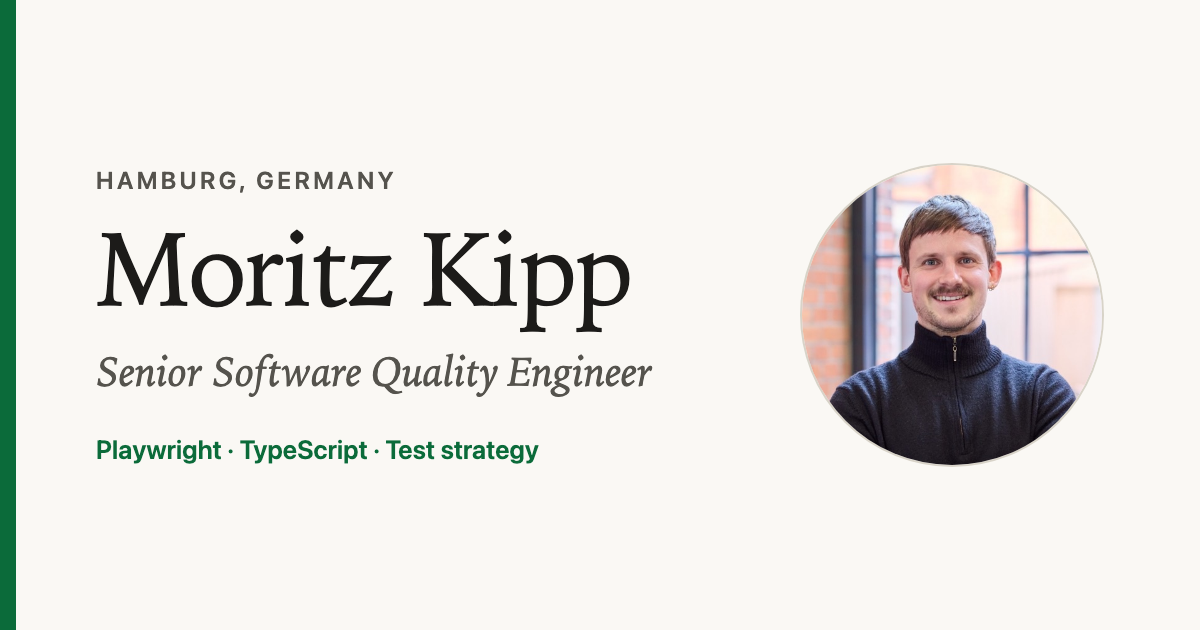
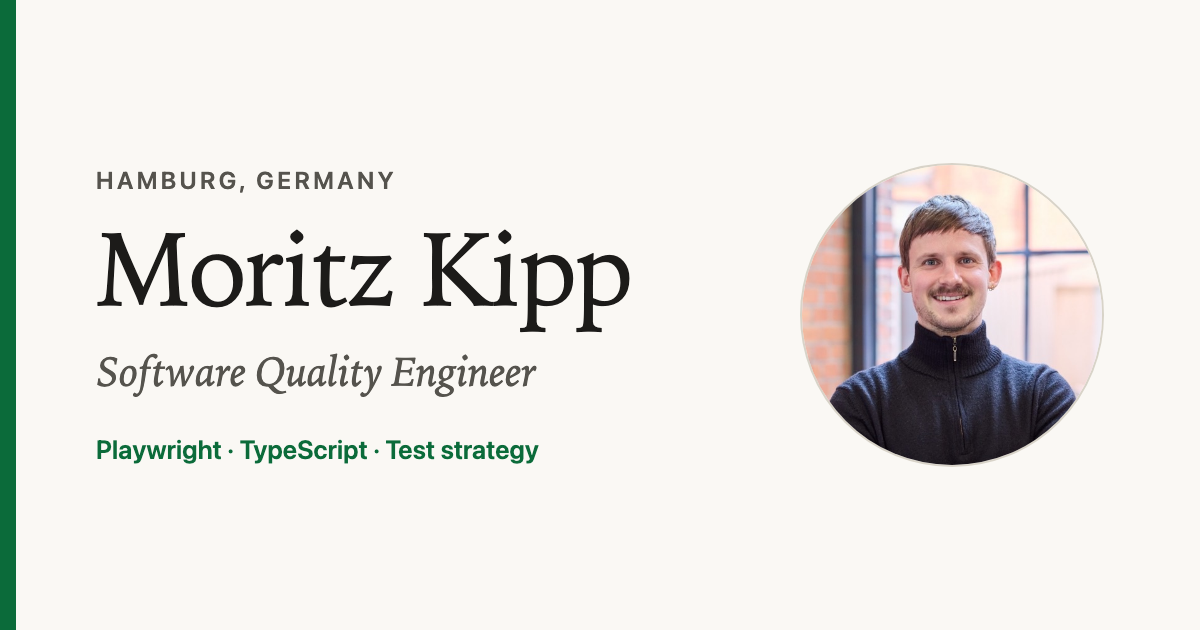
content: use 'Software Quality Engineer' as the headline title everywhere

Changed region(s): [[0.0925, 0.5429, 0.555, 0.6333]]

diff --git a/docs/roadmap.md b/docs/roadmap.md
@@ -4,9 +4,8 @@ Open items, roughly in priority order. One PR each.
 
 1. **Print as CV**: a print stylesheet tuned as a proper one- or two-page CV (compact type, page-break rules, contact details with URLs, optionally without the Quality Engineering section) plus a "Print or save as PDF" hint on the page.
 2. **"How this site is built" link** near the top of the page, jumping to the Quality Engineering section.
-3. **Headline title decision**: the hero, page title, link preview and structured data say "Senior Software Quality Engineer", while the current role is "Software Quality Engineer".
-4. German version (`de`); the data structure already allows it.
-5. Visual-regression screenshots of key sections.
-6. Dependabot for dependency updates.
-7. Custom domain (`astro.config.mjs`, canonical/OG constants in `tests/e2e/seo.spec.ts`).
-8. Experience bullets for the working-student role, if there are concrete achievements to list.
+3. German version (`de`); the data structure already allows it.
+4. Visual-regression screenshots of key sections.
+5. Dependabot for dependency updates.
+6. Custom domain (`astro.config.mjs`, canonical/OG constants in `tests/e2e/seo.spec.ts`).
+7. Experience bullets for the working-student role, if there are concrete achievements to list.

diff --git a/CLAUDE.md b/CLAUDE.md
@@ -1,4 +1,4 @@
-# Project: Personal CV site for Moritz Kipp (Senior Software Quality Engineer)
+# Project: Personal CV site for Moritz Kipp (Software Quality Engineer)
 
 ## Goal
 Fast, accessible, static CV/portfolio site that also *demonstrates* QA
